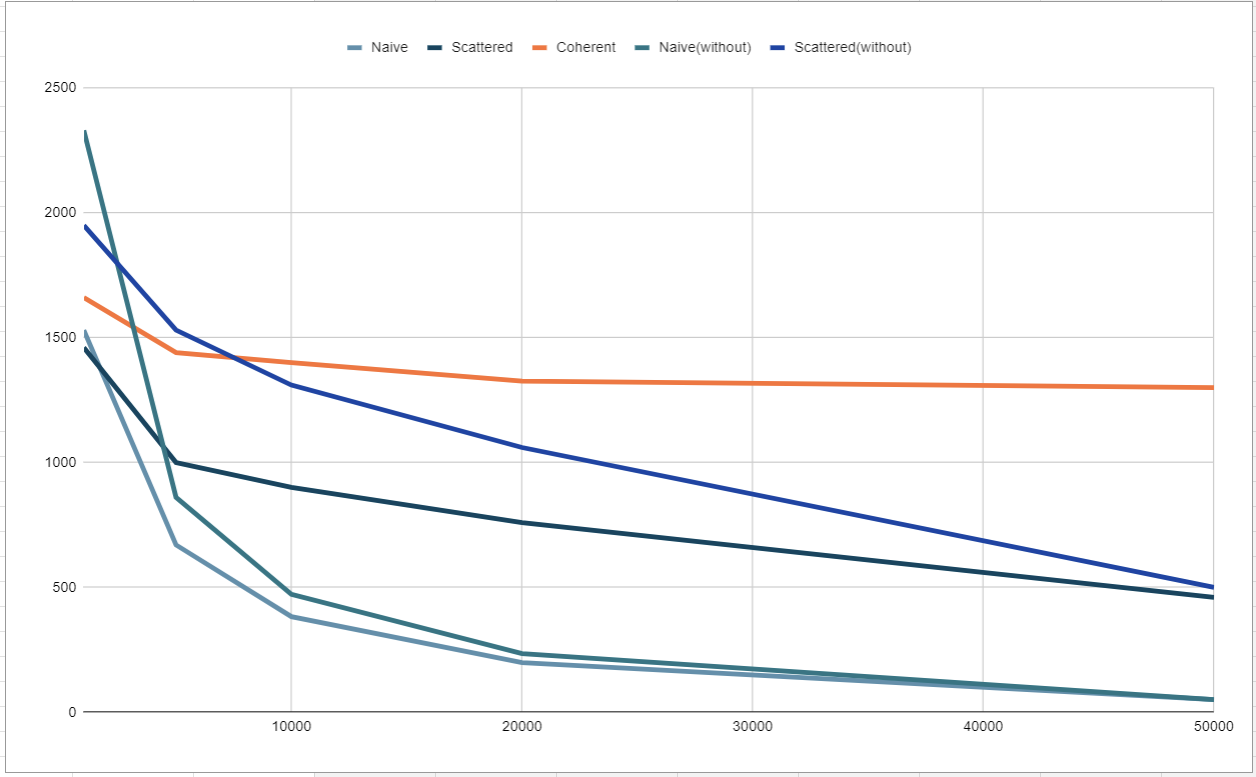
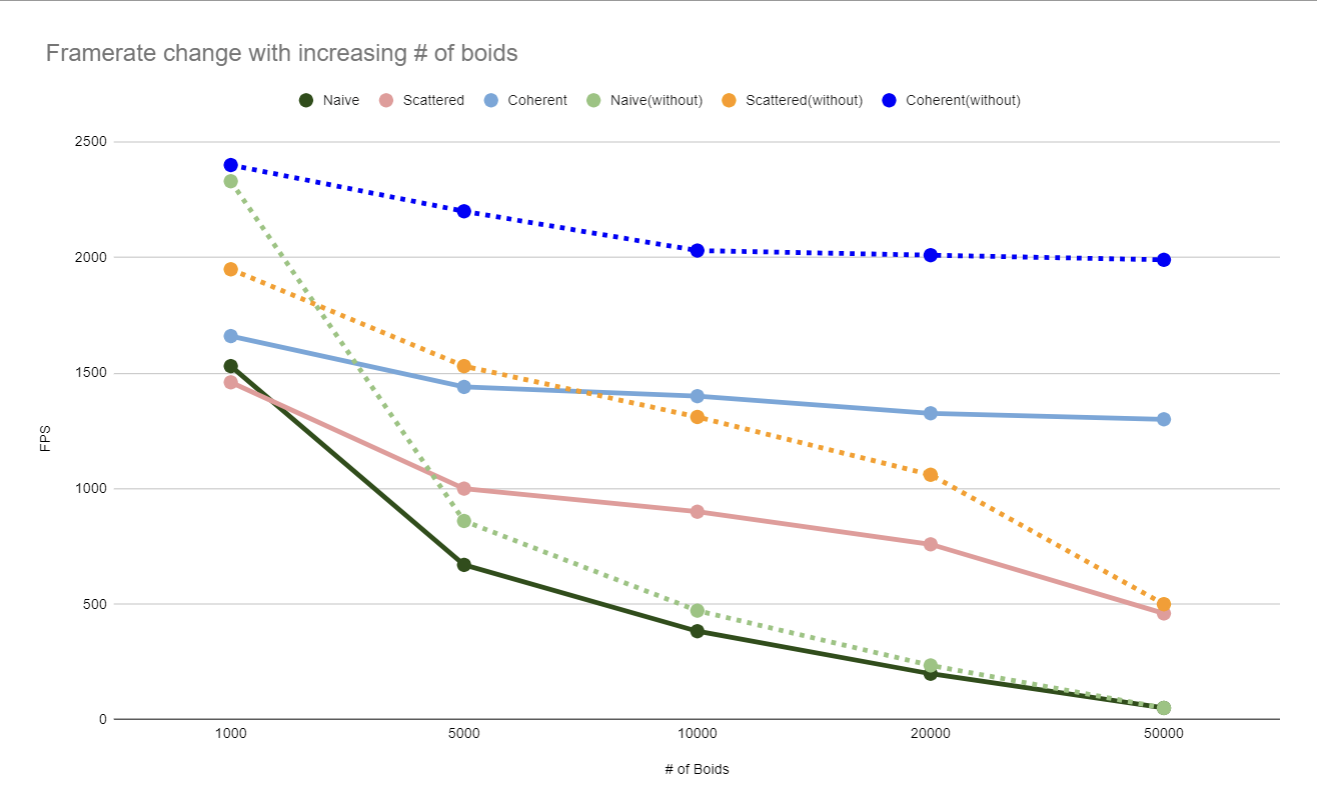
ongoing readme

diff --git a/README.md b/README.md
@@ -5,20 +5,55 @@ Project 1 - Flocking**
   * [LinkedIn](https://github.com/AnnieQiuuu/Project0-Getting-Started/blob/main/www.linkedin.com/in/annie-qiu-30531921a)
 * Tested on: Windows 11, i9-12900H @2500 Mhz, 16GB, RTX 3070 Ti 8GB (Personal)
 
+## Features
+
+### Naive Boids Simulation
+- Loop over all the boids to get the neighbors.
+
+### Scattered Boids Simulation
+- Implemented uniform grid to reduce the number of neighbor checks.
+
+### Coherent Boids Simulation
+- Optimized the simulation further by making the grid memory accesses coherent by sorting the vel and pos.
+- Reduce the number of neighbors to check in extra creadits part.
+
 ## Screenshots
 
-### Screenshot 1：Optimized coherent; number of boids = 5000; block size = 128
+### Screenshot 1
+- Optimized coherent; number of boids = 5000; block size = 128
 ![](images/Coherent.gif)
 
 ![](images/Coherent1.gif)
 
-#### Screenshot 2：Optimized coherent; number of boids = 500000; block size = 128
+### Screenshot 2
+- Optimized coherent; number of boids = 500000(really large amount); block size = 128
 ![](images/Coherent3.gif)
 
 ## Performance Analysis
 
-#### Framerate change with increasing # of boids
-![](images/boids.gif)
+### Framerate change with increasing # of boids
+![](images/Boids.png)
+- Descriptions: The dashed lines represent the performance without visualization, and the solid lines represent performance with visualization. I chose 1000, 5000, 10000, 20000, and 50000 boids for testing. The y-axis is the frames per second (FPS), and the x-axis is the number of boids.
+1. How does changing the number of boids affect performance for each implementation? Why do you think this is?
+  - Naive simulation: This is the slowest among the three implementations, and the FPS drops drastically as the number of boids increases. This is because the Naive Simulation requires looping through every single boid, resulting in 𝑂 ( 𝑁 2 ) O(N 2 ) complexity. As 𝑁 N increases, the speed becomes significantly slower.
+  - Scattered simulation： By using a uniform grid, we can reduce the number of boids each boid has to check. In this case, I limited the search to the boids in 27 or 8 nearby cells, which dramatically decreases complexity.
+  - Coherent simulation：This is an optimized version of the scattered implementation. By sorting the pos and vel arrays, we reduced memory access times, further improving efficiency. In the extra credit part, I made further optimizations to the coherent implementation. Based on the boid’s position in the cell, I dynamically chose which neighboring cells to check. This reduces the need to check all 27 cells while still maintaining accurate neighbor checks, resulting in even better performance.
 
-#### Framerate change with increasing block size
-![](images/blocks.gif)
+### Framerate change with increasing block size
+![](images/BlockSize.png)
+- Descriptions:
+2. How does changing the block count and block size affect performance for each implementation?
+  - Naive Simulation: Performance improves slightly with increasing block size, but the impact is minimal. The main bottleneck remains the large number of neighbor checks, which is not significantly affected by block size changes.
+  - Scattered Simulation: Performance improves more noticeably with larger block sizes. The uniform grid approach allows each thread to process fewer boids, so increasing the block size allows more efficient parallel processing, leading to better performance.
+  - Coherent Simulation: The coherent grid implementation also shows performance improvements with larger block sizes, but the gains are less dramatic compared to the scattered implementation. This is because memory access is already optimized in the coherent implementation, and block size changes primarily affect parallelism, not memory access.
+
+3. Did you experience any performance improvements with the coherent uniform grid? Was this the outcome you expected? Why or why not?
+
+### 27 vs. 8 Neighbor Cells
+| Cells to check | Scattered     | Coherent |
+|---------------:|---------------|----------|
+|     8          |   2080        |   2140   |
+|     27         |     1520      |   2080   |
+4. Did changing cell width and checking 27 vs. 8 neighboring cells affect performance? Why or why not?
+
+## Extra Credits
